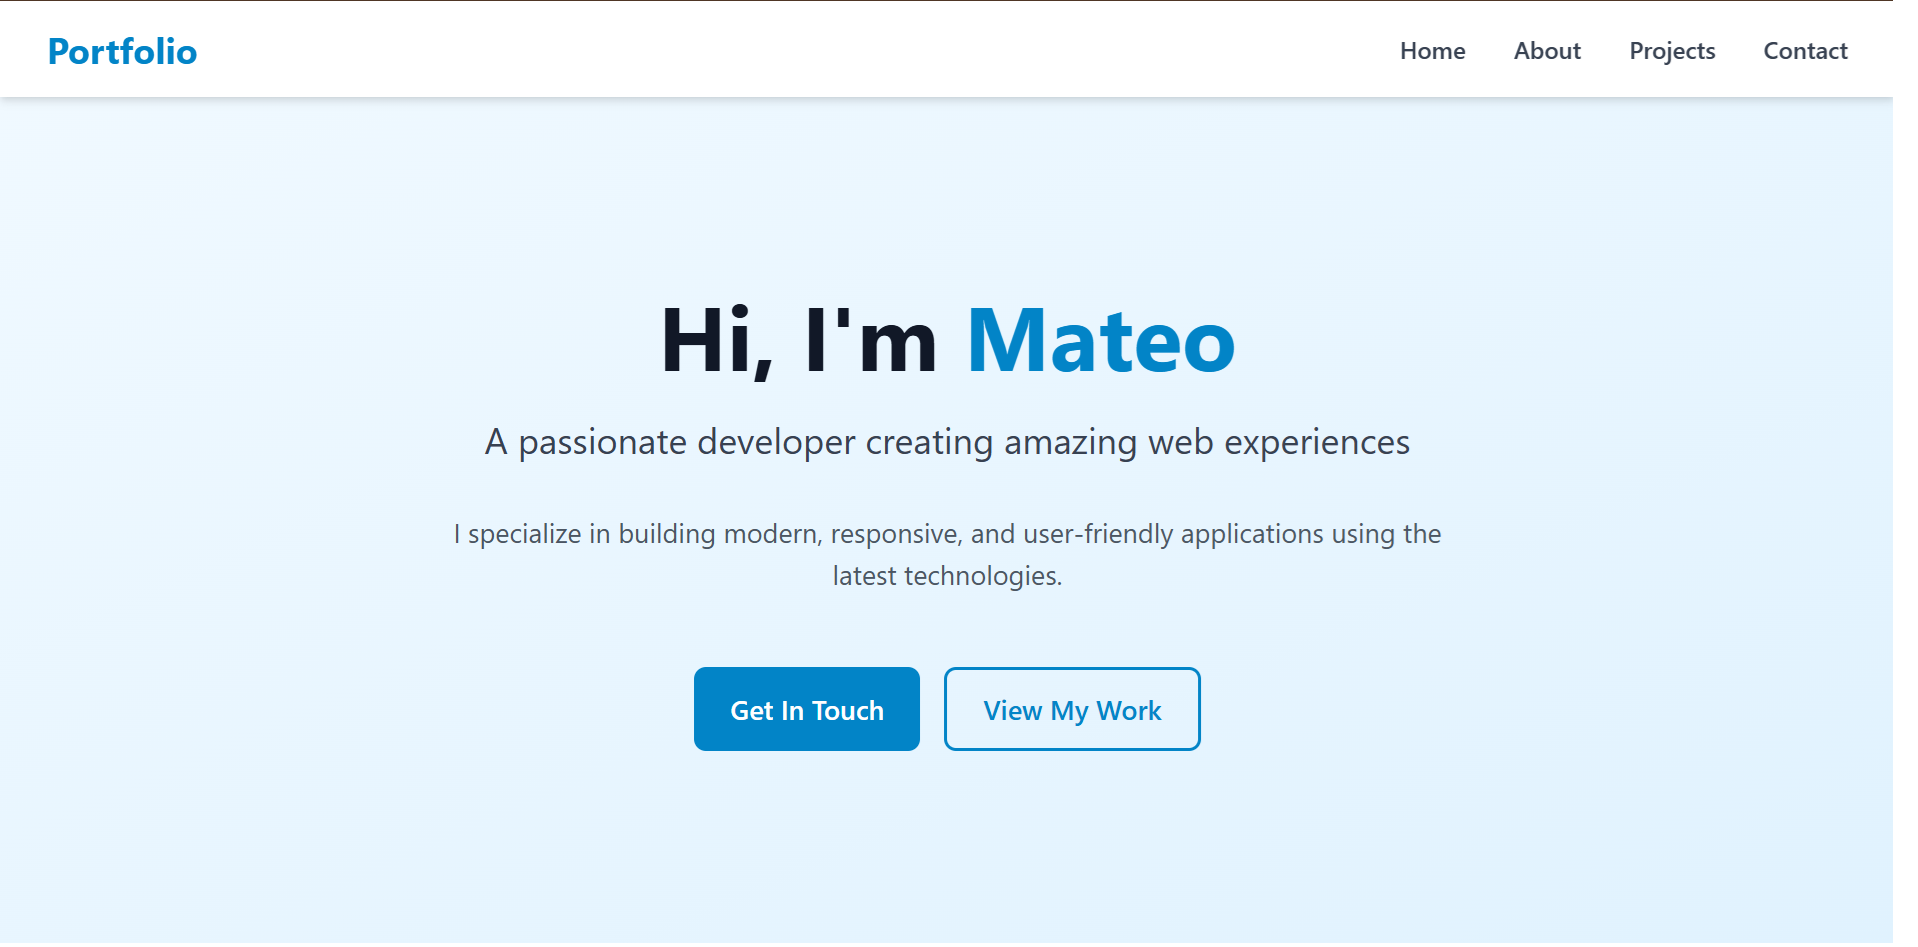
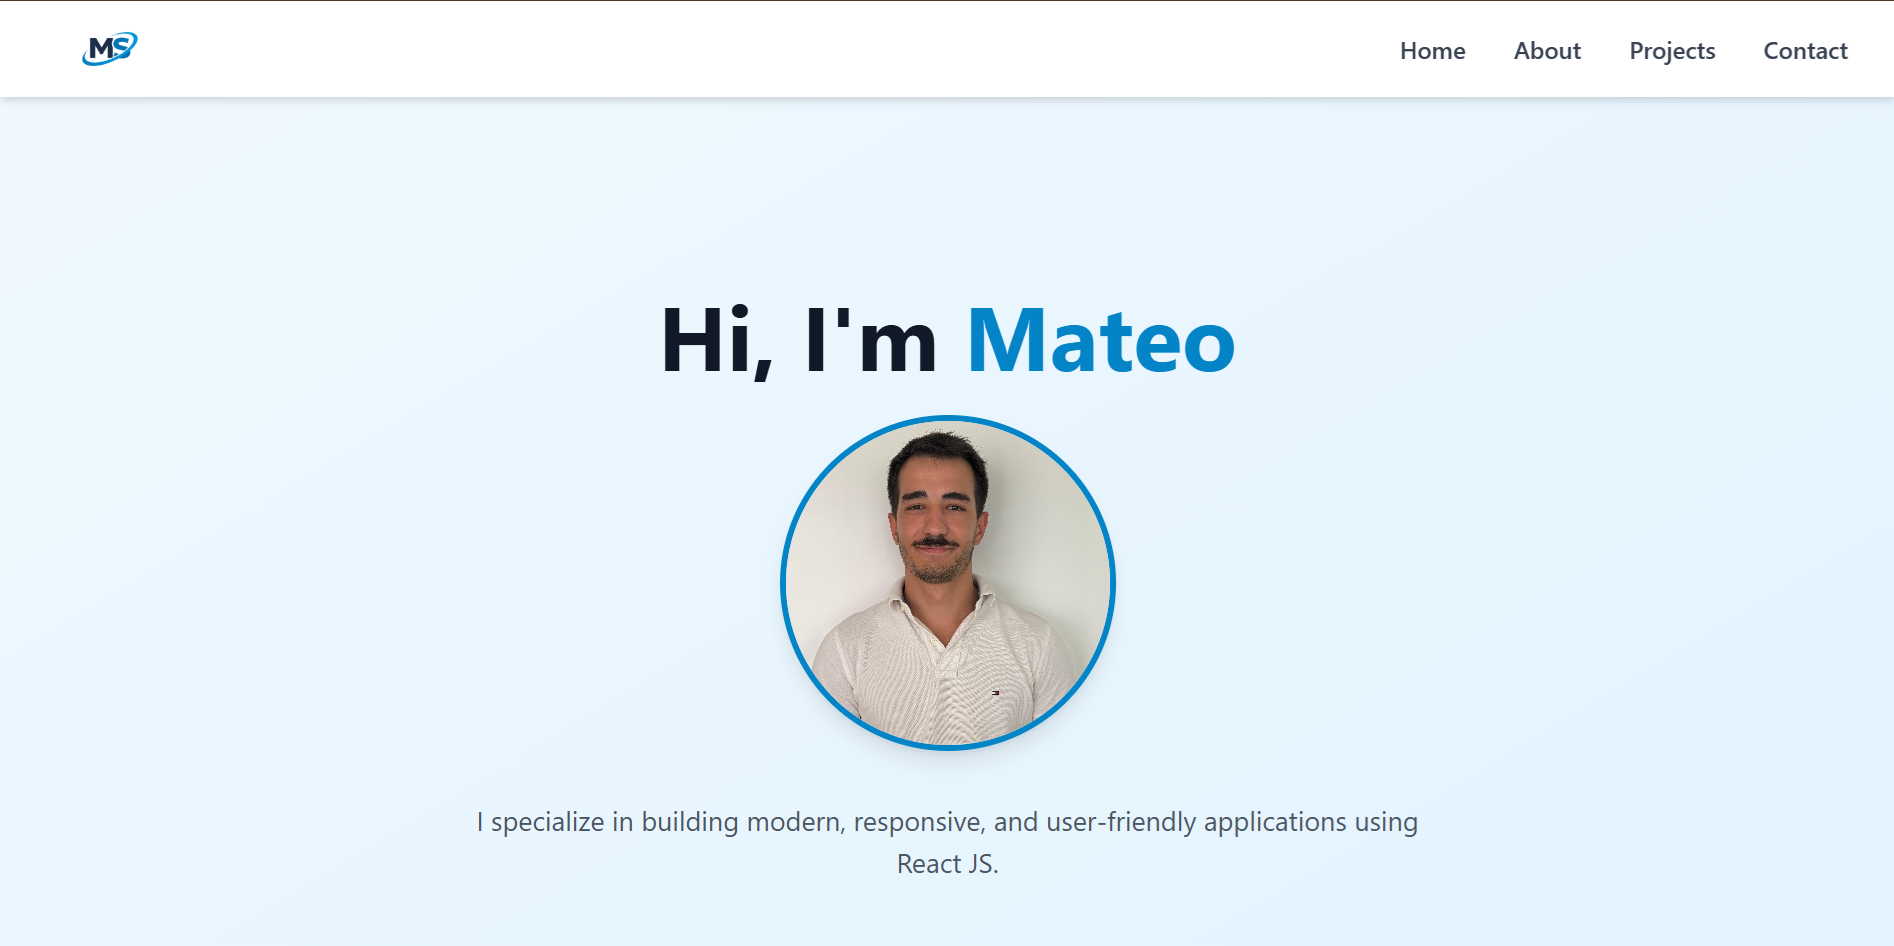
Fix: Imagen y url Portfolio

diff --git a/src/views/Projects.jsx b/src/views/Projects.jsx
@@ -25,7 +25,7 @@ const Projects = () => {
         'A modern portfolio website showcasing projects, skills, and professional experience.',
       technologies: ['React', 'Tailwind'],
       image: '/portfolio.png',
-      link: 'https://mateosacco99.github.io/cotizador-gestion/',
+      link: 'https://mateo-sacco.vercel.app/',
     },
   ];
 
